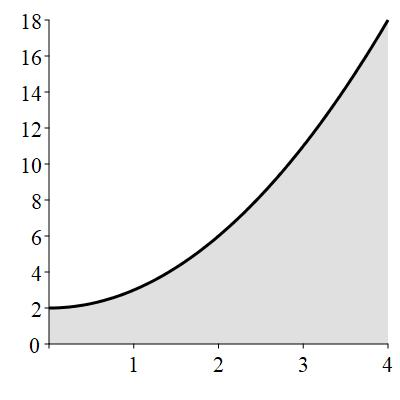
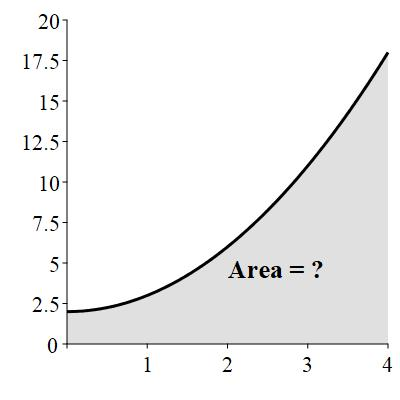
pics

diff --git a/MyFolder/IntegrationActivity.tex b/MyFolder/IntegrationActivity.tex
@@ -248,17 +248,10 @@ approximating the area.
 % Maple Code for Graph
 % display([plot(x^2 + 2, x = 0 .. 4, 0 .. 18, color = grey, filled = true, thickness = 2), plot(x^2 + 2, x = 0 .. 4, color = black, thickness = 3)], labelfont = [COURIER, 1], % axesfont = ["TIMES", "NEW ROMAN", 17])
 
-\begin{image}
-  \begin{minipage}[c]{4in} 
-    \centering 
+\begin{center}
     \includegraphics[width=4in,height=4in]{Area.jpg} 
-  \end{minipage}% <-- This percent sign forces the next block to stay on the same line
-  \begin{minipage}[c]{2in} 
-    \centering 
-    \large Area $\displaystyle = \textbf{?}$ 
-  \end{minipage}
-  \xmalt{A graph showing the area bounded by the function x squared plus 2 and the x-axis on the interval from 0 to 4.}
-\end{image}
+    \xmalt{A graph showing the area bounded by the function x squared plus 2 and the x-axis on the interval from 0 to 4.}
+\end{center}
 
 To approximate the area bounded by a function $f(x)$ and the $x$-axis on $[a,b],$ we begin by drawing $n$ rectangles of equal width $\Delta x = \textstyle \frac{b-a}{n}$
 and lengths given by $f.$  The area is then approximated by the sum of the areas of the rectangles.
